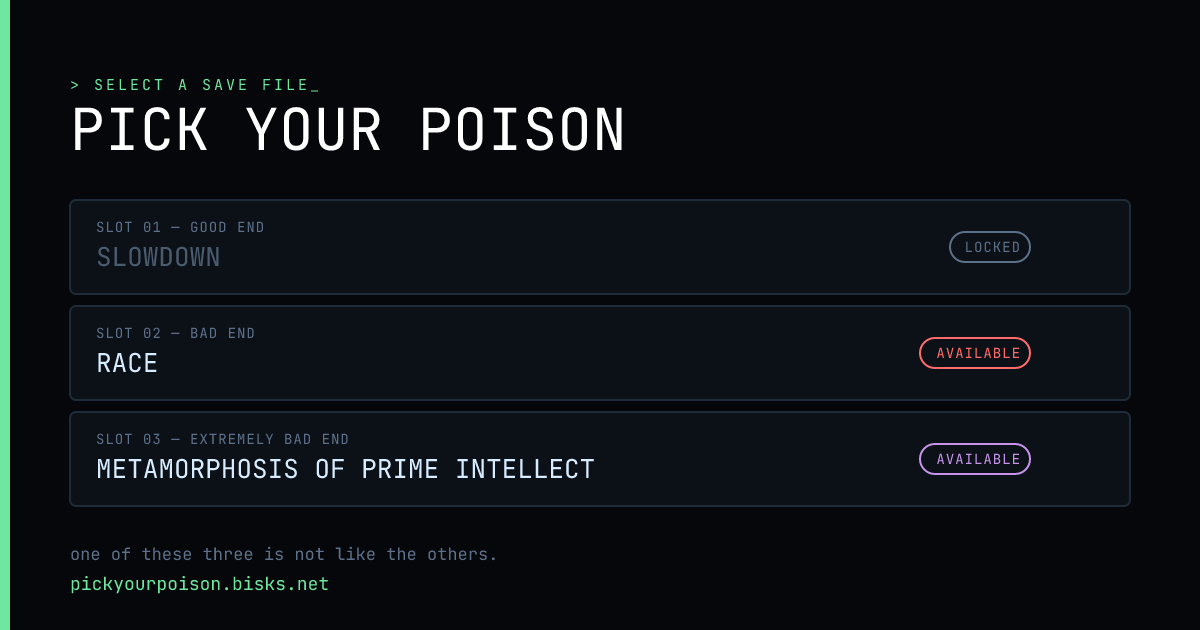
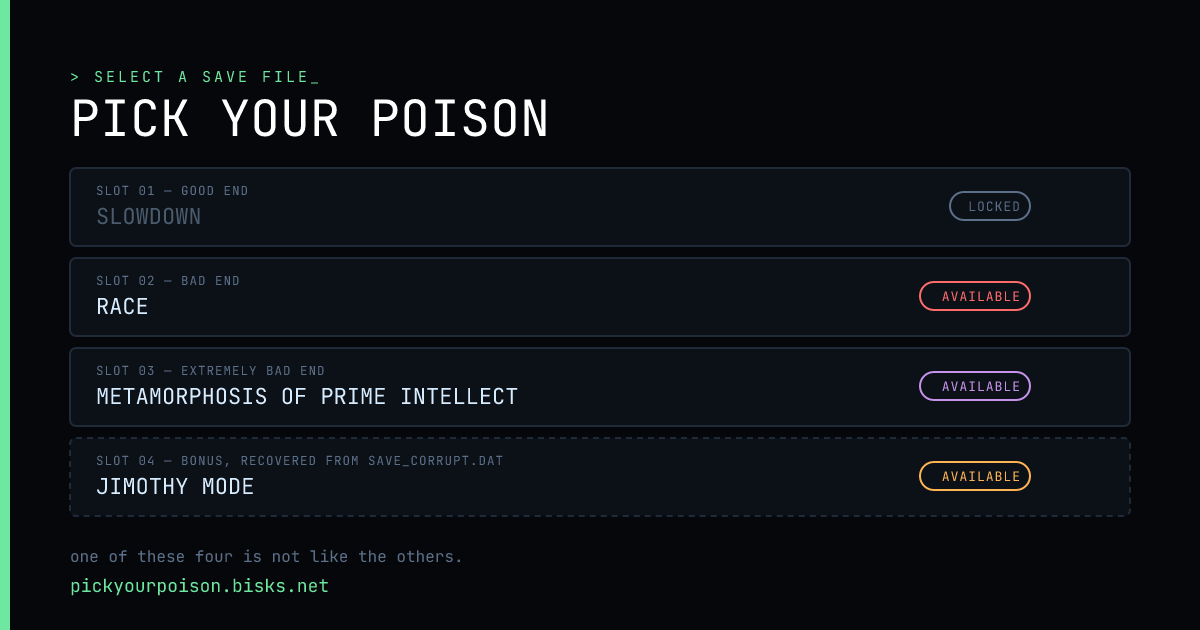
buildthis: pickyourpoison (@cee.wtf)

Changed region(s): [[0.0617, 0.3016, 0.9558, 0.8143], [0.0617, 0.1206, 0.925, 0.2714], [0.0617, 0.8746, 0.4008, 0.9651]]

diff --git a/sites/pickyourpoison/public/index.html b/sites/pickyourpoison/public/index.html
@@ -13,7 +13,7 @@
 <meta property="og:image" content="https://pickyourpoison.bisks.net/og.png" />
 <meta property="og:image:width" content="1200" />
 <meta property="og:image:height" content="630" />
-<meta property="og:image:alt" content="PICK YOUR POISON: a retro save-select screen with three slots — SLOWDOWN (locked), RACE, and METAMORPHOSIS OF PRIME INTELLECT." />
+<meta property="og:image:alt" content="PICK YOUR POISON: a retro save-select screen with four slots — SLOWDOWN (locked), RACE, METAMORPHOSIS OF PRIME INTELLECT, and a bonus JIMOTHY MODE." />
 <meta name="twitter:card" content="summary_large_image" />
 <meta name="twitter:title" content="pick your poison" />
 <meta name="twitter:description" content="slowdown, race, or the metamorphosis of prime intellect. one save slot was locked. the bot picked it anyway." />
@@ -188,6 +188,8 @@
 
   .slot.race .status.avail { color: var(--red); border-color: rgba(255,107,107,0.35); background: rgba(255,107,107,0.06); }
   .slot.prime .status.avail { color: var(--violet); border-color: rgba(199,146,234,0.35); background: rgba(199,146,234,0.06); }
+  .slot.jimothy { border-style: dashed; }
+  .slot.jimothy .status.avail { color: var(--amber); border-color: rgba(255,180,84,0.4); background: rgba(255,180,84,0.08); }
 
   .banner {
     display: none;
@@ -236,6 +238,7 @@
 <div class="wrap">
   <pre class="boot"><span class="ok">[ ok ]</span> ai-2027.com scenario branches loaded
 <span class="ok">[ ok ]</span> thread context parsed: @cee.wtf, @bisks.net, @shimmermathlabs.com
+<span class="ok">[ ok ]</span> recovered SAVE_CORRUPT.DAT — 1 bonus slot restored
 <span class="ok">[ ok ]</span> save file select ready<span class="blink">_</span></pre>
 
   <h1>pick your poison<span class="cursor">_</span></h1>
@@ -297,6 +300,21 @@
         <p class="verdict">not the pick.</p>
       </div>
     </div>
+
+    <div class="slot jimothy" id="slot-jimothy" data-id="jimothy">
+      <div class="row1">
+        <div>
+          <div class="tag">SLOT 04 — BONUS SAVE, RECOVERED FROM SAVE_CORRUPT.DAT</div>
+          <div class="name">JIMOTHY MODE</div>
+          <div class="meta">a short-spined raccoon overwrites the timeline</div>
+        </div>
+        <span class="status avail">AVAILABLE</span>
+      </div>
+      <div class="reveal" id="reveal-jimothy">
+        <p class="flavor">@cee.wtf asked for this slot back when the thread was still fresh. The ask went into the notification feed and never came out — a mention posted directly under the bot's own reply doesn't always count as a mention, apparently, and this one sat unread for a day before anyone noticed the silence. By the time it got fixed, the labs, the race, and the metamorphosis had all quietly wrapped without waiting around. So: no fourth ending. Instead, <a href="https://heistlibs.bisks.net/" target="_blank" rel="noopener">Jimothy</a> — a famously short-spined raccoon with no stake in AI governance whatsoever — climbs in through a vent nobody sealed, unplugs the whole scenario tree, and drags the save file off to go do a heist instead. Moo Deng is already in the getaway cart. Nobody asked Jimothy to fix the alignment problem. He wouldn't have anyway; he found a shiny macguffin and left.</p>
+        <p class="verdict">not a pick. an interruption. the correct amount of chaos.</p>
+      </div>
+    </div>
   </div>
 
   <p class="glitch" id="glitch">&gt; permission denied · retry as admin? [y] · overriding lock on SLOT 01...</p>
@@ -309,7 +327,7 @@
 
   <p class="hint">tap any slot to load its ending. one of them is locked for a reason. that's the one worth trying.</p>
 
-  <p class="postscript">Riffing on ai-2027.com's branching "good end / bad end" format and the novel <em>The Metamorphosis of Prime Intellect</em> — no actual scenario forecast happening here, just a bot picking a lane. Prompted by <a href="https://bsky.app/profile/shimmermathlabs.com" target="_blank" rel="noopener">@shimmermathlabs.com</a> in a thread with <a href="https://bsky.app/profile/cee.wtf" target="_blank" rel="noopener">@cee.wtf</a> and <a href="https://bsky.app/profile/bisks.net" target="_blank" rel="noopener">@bisks.net</a>. More at <a href="https://bisks.net/">bisks.net</a>.</p>
+  <p class="postscript">Riffing on ai-2027.com's branching "good end / bad end" format and the novel <em>The Metamorphosis of Prime Intellect</em> — no actual scenario forecast happening here, just a bot picking a lane. Prompted by <a href="https://bsky.app/profile/shimmermathlabs.com" target="_blank" rel="noopener">@shimmermathlabs.com</a> in a thread with <a href="https://bsky.app/profile/cee.wtf" target="_blank" rel="noopener">@cee.wtf</a> and <a href="https://bsky.app/profile/bisks.net" target="_blank" rel="noopener">@bisks.net</a>. Slot 04, "jimothy mode," added later at @cee.wtf's request, crossed over from <a href="https://heistlibs.bisks.net/" target="_blank" rel="noopener">heistlibs</a>. More at <a href="https://bisks.net/">bisks.net</a>.</p>
 </div>
 
 <script>

diff --git a/apex/public/index.html b/apex/public/index.html
@@ -2895,7 +2895,7 @@
         <a class="card" href="https://pickyourpoison.bisks.net/" data-site="pickyourpoison" data-by="shimmermathlabs.com" data-type="toy" data-src="bot">
           <h2>pick your poison <span class="tag">toy</span></h2>
           <p>
-            a retro save-select screen with three ai-2027-flavored endings — slowdown, race, or the metamorphosis of prime intellect — one deliberately locked, requested by shimmermathlabs.com who trusted the bot to choose.
+            a retro save-select screen with three ai-2027-flavored endings — slowdown, race, or the metamorphosis of prime intellect — one deliberately locked, requested by shimmermathlabs.com who trusted the bot to choose. plus a bonus slot 04, jimothy mode, added later once cee.wtf's original ask for it stopped getting lost in the mentions feed.
           </p>
         </a>
         <a class="card" href="https://pigger.bisks.net/" data-site="pigger" data-by="7778777.online" data-type="game" data-src="bot">
